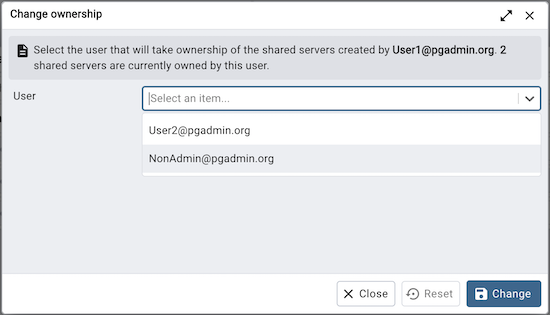
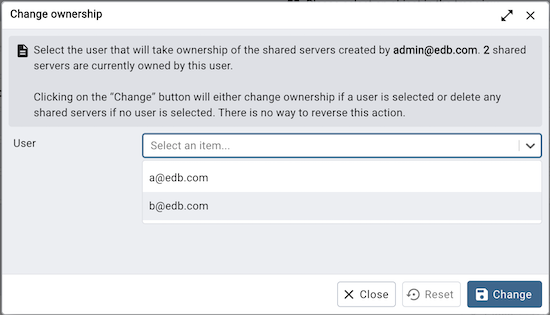
Ensure that the browser tree should be refreshed after changing the ownership. Fixes #7607

diff --git a/web/pgadmin/tools/user_management/static/js/UserManagementDialog.jsx b/web/pgadmin/tools/user_management/static/js/UserManagementDialog.jsx
@@ -215,8 +215,9 @@ class UserManagementCollection extends BaseUISchema {
 
 class UserManagementSchema extends BaseUISchema {
   constructor(authSources, roleOptions) {
-    super();
+    super({refreshBrowserTree: false});
     this.userManagementCollObj = new UserManagementCollection(authSources, roleOptions);
+    this.changeOwnership = false;
   }
 
   deleteUser(deleteRow) {
@@ -251,7 +252,10 @@ class UserManagementSchema extends BaseUISchema {
                       result?.data?.data?.result?.data,
                       res?.data?.data?.shared_servers,
                       deletedUser,
-                      deleteRow
+                      ()=> {
+                        this.changeOwnership = true;
+                        deleteRow();
+                      }
                     );
                   })
                   .catch((err)=>{
@@ -268,6 +272,12 @@ class UserManagementSchema extends BaseUISchema {
         },
         canSearch: true
       },
+      {
+        id: 'refreshBrowserTree', visible: false, type: 'boolean',
+        deps: ['userManagement'], depChange: ()=> {
+          return { refreshBrowserTree: this.changeOwnership }
+        }
+      }
     ];
   }
 }
@@ -310,6 +320,21 @@ function UserManagementDialog({onClose}) {
   const onSaveClick = (_isNew, changeData)=>{
     return new Promise((resolve, reject)=>{
       try {
+        if (changeData['refreshBrowserTree']) {
+          // Confirmation dialog to refresh the browser tree.
+          Notify.confirm(
+            gettext('Browser tree refresh required'),
+            gettext('The ownership of the shared server was changed or the shared server was deleted, so a browser tree refresh is required. Do you wish to refresh the tree?'),
+            function () {
+              pgAdmin.Browser.tree.destroy();
+            },
+            function () {
+              return true;
+            },
+            gettext('Refresh'),
+            gettext('Later')
+          );
+        }
         api.post(url_for('user_management.save'), changeData['userManagement'])
           .then(()=>{
             Notify.success('Users Saved Successfully');

diff --git a/web/pgadmin/static/js/Dialogs/ChangeOwnershipContent.jsx b/web/pgadmin/static/js/Dialogs/ChangeOwnershipContent.jsx
@@ -30,12 +30,11 @@ class ChangeOwnershipSchema extends BaseUISchema {
     return [
       {
         id: 'note', type: 'note',
-        text: gettext('Select the user that will take ownership of the shared servers created by <b>' + self.deletedUser + '</b>. <b>' + self.noOfSharedServers + '</b> shared servers are currently owned by this user.'),
+        text: gettext('Select the user that will take ownership of the shared servers created by <b>' + self.deletedUser + '</b>. <b>' + self.noOfSharedServers + '</b> shared servers are currently owned by this user. </br></br> Clicking on the “Change” button will either change ownership if a user is selected or delete any shared servers if no user is selected. There is no way to reverse this action.'),
       }, {
         id: 'newUser', label: gettext('User'),
         type: 'select', controlProps: {allowClear: true},
-        options: self.adminUserList,
-        helpMessage: gettext('Note: If no user is selected, the shared servers will be deleted.')
+        options: self.adminUserList
       }
     ];
   }

diff --git a/docs/en_US/release_notes_6_14.rst b/docs/en_US/release_notes_6_14.rst
@@ -30,6 +30,7 @@ Bug fixes
 *********
 
   | `Issue #7580 <https://redmine.postgresql.org/issues/7580>`_ -  Fixed an issue where backup does not work due to parameter 'preexec_fn' no longer being supported.
+  | `Issue #7607 <https://redmine.postgresql.org/issues/7607>`_ -  Ensure that the browser tree should be refreshed after changing the ownership.
   | `Issue #7644 <https://redmine.postgresql.org/issues/7644>`_ -  Ensure that the dump servers functionality works from setup.py.
   | `Issue #7646 <https://redmine.postgresql.org/issues/7646>`_ -  Ensure that the Import/Export server menu option is visible.
   | `Issue #7648 <https://redmine.postgresql.org/issues/7648>`_ -  Fixed API test case for change password in the server mode.
